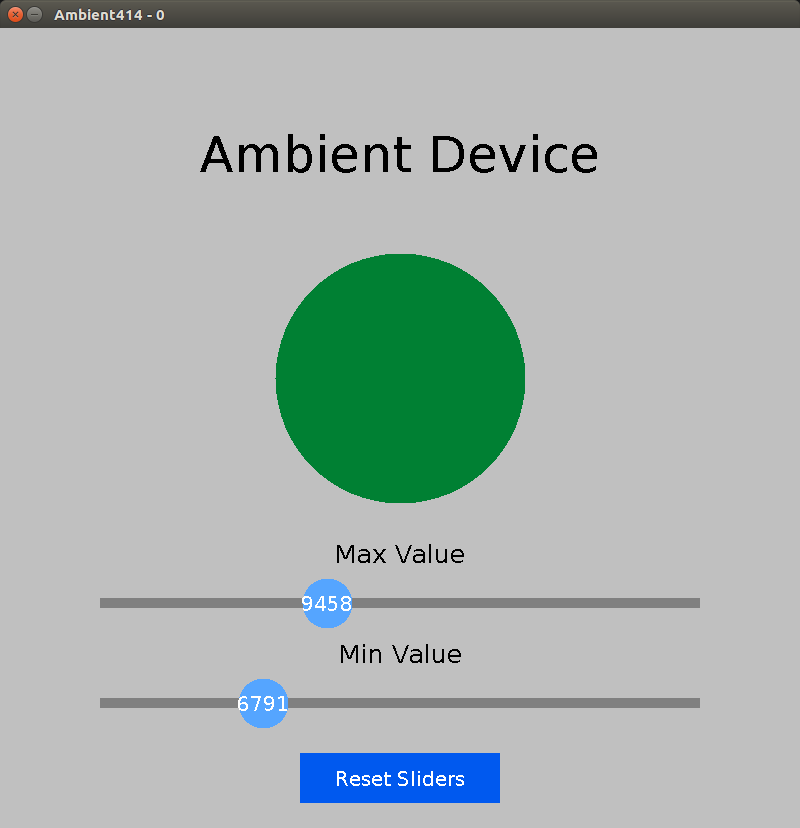
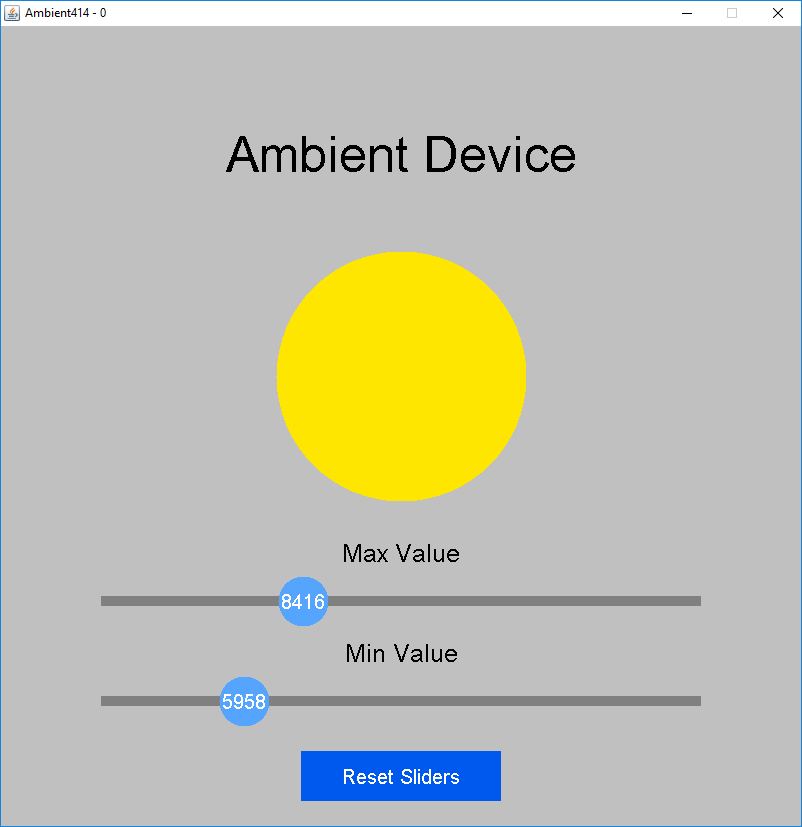
Updated ReadME and the JAR file.

diff --git a/src/Ambient414.java b/src/Ambient414.java
@@ -7,7 +7,7 @@ import java.util.TimerTask;
 /**
  * Ambient project for ICS414 Summer 2017.
  * Created by Ryan Theriot and Aaron Jhumar Villanueva.
- *
+ * <p>
  * Dylan Kobayashi 's EZGraphics library used for UI and graphics.
  */
 public class Ambient414 {
@@ -41,8 +41,8 @@ public class Ambient414 {
         maxSlider.setSliderPositionByValue(pineFlatData.getMaxValue());
 
         //Setup button the user can press to set ideal values
-        EZRectangle setIdealMinMaxButton = EZ.addRectangle(W_WIDTH / 2, W_HEIGHT -50, 200, 50, new Color(0, 89, 239), true);
-        EZ.addText(W_WIDTH / 2, W_HEIGHT -50, "Reset Sliders", Color.white, 20);
+        EZRectangle setIdealMinMaxButton = EZ.addRectangle(W_WIDTH / 2, W_HEIGHT - 50, 200, 50, new Color(0, 89, 239), true);
+        EZ.addText(W_WIDTH / 2, W_HEIGHT - 50, "Reset Sliders", Color.white, 20);
 
         //Setup a timer to update data every 30 minutes.
         //First data retrieval should be performed in data's constructor (ie: PineFlatData)
@@ -53,7 +53,9 @@ public class Ambient414 {
             public void run() {
                 try {
                     pineFlatData.getData();
-                } catch(IOException e) {};
+                } catch (IOException e) {
+                }
+                ;
             }
         };
         long thirtyMins = 1000 * 60 * 30;
@@ -114,13 +116,12 @@ public class Ambient414 {
             //Set Device color to Yellow if inflow==outflow
             //Set to BLUE if Data is bad
             //Show warning text just for debugging
-            if(pineFlatData.isDataGood()) {
+            if (pineFlatData.isDataGood()) {
                 //Removed brightness for now
                 //device.setBrightness(pineFlatData.getBrightnessValue());
                 device.setColor(pineFlatData.getColorValue());
                 warning.hide();
-            }
-            else {
+            } else {
                 device.setColor(70);
                 warning.show();
             }

diff --git a/README.md b/README.md
@@ -10,10 +10,12 @@ The current iteration tracks the US Army corps of Engineers King River Basin Dat
 
 The Ambient device changes color to indicate the Pine Flat outflow and inflow status.  
 
-When the lamp is BLUE the outflow is greater than the inflow and all is well.  
+When the lamp is GREEN the outflow is greater than the inflow and all is well.  
 When the lamp is RED the inflow is greater than the outflow and all is not well.  
-Green indicates the flows are exactly the same.  
-Yellow indicates the data source is not available.  
+When the lamp is YELLOW the flows are around the same.  
+BLUE indicates the data source is not available.  
+
+The colors are on a gradient scale. So a stronger color green means more outflow.
 
 ![alt test](https://raw.githubusercontent.com/aaronvil/ICS414_ambient/ryan-assignment2/doc/images/outflow-greater.png)  
  
